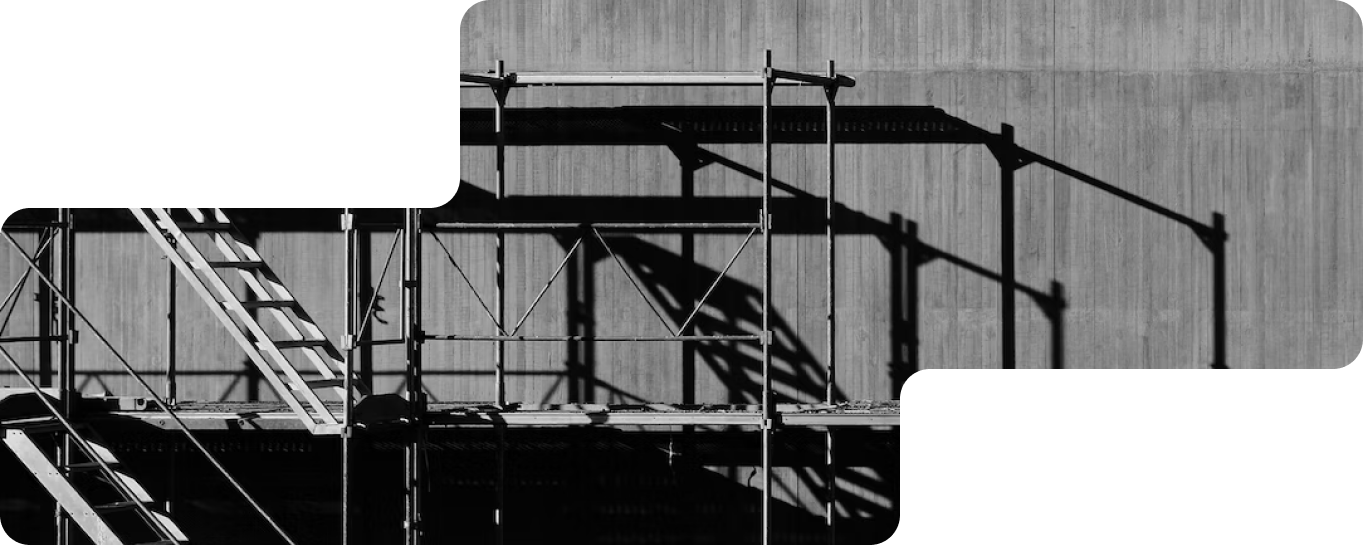
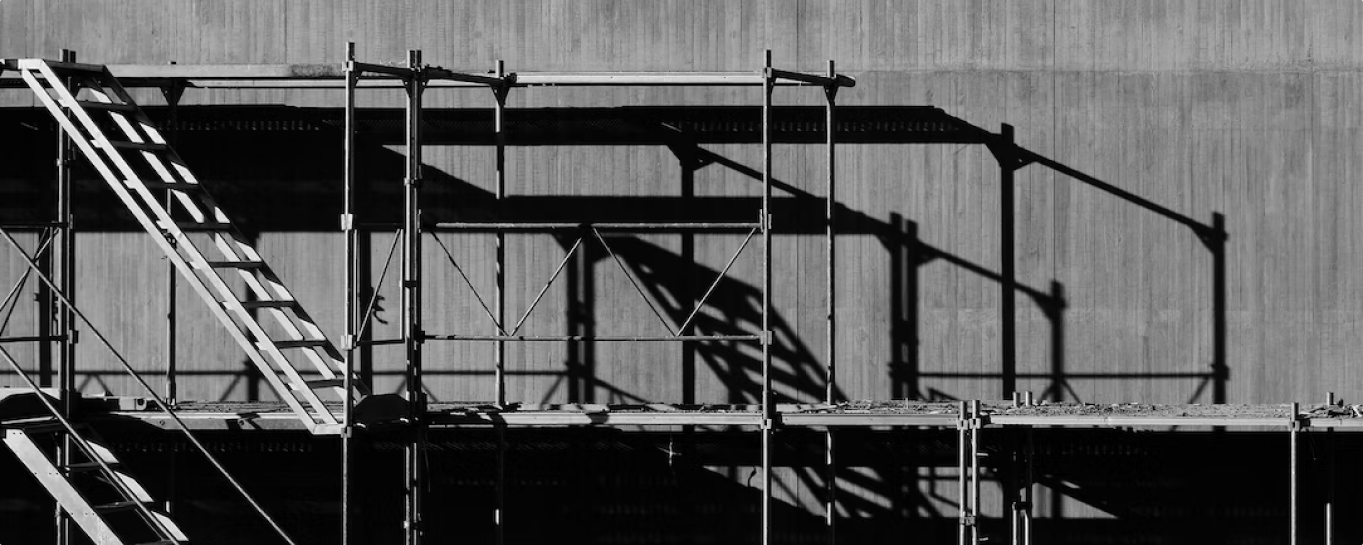
Блок Категории

diff --git a/main-page/scss/main.scss b/main-page/scss/main.scss
@@ -6,6 +6,7 @@ body {
     background-color: $bgColor;
 }
 
+
 header {
     display: flex;
     justify-content: center;
@@ -76,11 +77,18 @@ header {
 
 }
 
-.text-1 {
-    margin-top: 35px;
-    padding: 0 20px;
+
+.content-container {
     width: 100%;
     max-width: 1920px;
+    margin: 0 auto;
+    padding: 0 20px;
+}
+.text-1 {
+    margin-top: 35px;
+    // padding: 0 20px;
+    width: 100%;
+    // max-width: 1920px;
     display: flex;
     flex-direction: column;
     
@@ -105,12 +113,136 @@ header {
 }
 
 .main-category {
+    background-clip: content-box;
     margin-top: 35px;
-    padding: 0 20px;
     width: 100%;
     max-width: 1920px;
     height: 545px;
     display: flex;
     flex-direction: column;
     background-image: url("/../img/block-2.png");
+    background-repeat: no-repeat;
+    background-size: cover;
+    border-radius: 30px;
+    display: flex;
+    flex-direction: row;
+    justify-content: space-between;
+
+    > :last-child {
+        align-self: flex-end;
+        padding: 23px 0 0 23px;
+    }
+
+    .main-category-container {
+        width: 460px;
+        height: 210px;
+        border-radius: 30px 0px;
+        background-color: $bgColor;
+        margin: -1px;
+        display: grid;
+        grid-template-areas: 
+            "A B"
+            "C C"
+        ;
+
+        .angle {
+            width: 30px;
+            height: 30px;
+            background:
+                radial-gradient(circle at 100% 100%, rgba(0,0,0,0) 30px, $bgColor 0px);
+        }
+
+        .a1 {
+            grid-area: B;
+            margin-left: 19px;
+        }
+
+        .a2 {
+            grid-area: C;
+            margin-top: 19px;
+        }
+
+        
+        .main-category-link {
+            width: 440px;
+            height: 190px;
+            border-radius: 30px;
+            background: var(--secondary-bg-gradient, linear-gradient(92deg, rgba(13, 135, 248, 0.15) 1.39%, rgba(124, 231, 255, 0.25) 45.35%, rgba(143, 201, 254, 0.45) 89.31%));
+            display: flex;
+            flex-direction: row;
+            justify-content: space-between;
+            grid-area: A;
+            
+            a {
+                display: block; 
+                height: 190px;
+                width: 440px;
+                position: absolute;
+            }
+
+            p {
+                margin-left: 32px;
+                font-family: "Tektur";
+                color: $darkBlue;
+                font-size: 24px;
+                font-weight: 500;
+                align-self: center;
+            }
+
+            .main-category-arrow {
+                width: 60px;
+                height: 60px;
+                border-radius: 30px;
+                background-color: #FFFFFF;
+                flex-shrink: 0;
+                align-self: flex-end;
+                display: flex;
+                justify-content: center;
+                align-items: center;
+                margin-right: 32px;
+                margin-bottom: 30px;
+                
+            }
+        
+        }
+    }
+
+}
+
+.link-2 {
+                   
+    grid-template-areas: 
+       "B B"
+        "C A"!important
+    ;
+
+    grid-template-columns: 20px 440px;
+    grid-template-rows: 20px 190px;
+    padding: 0!important;
+    
+    .main-category-link {
+        justify-self: end;
+        align-self: end;
+    }
+
+    .angle {
+         background:
+            radial-gradient(circle at 0 0, rgba(0,0,0,0) 30px, $bgColor 0px)!important;
+    }
+
+    .a1 {
+        justify-self: end;
+        position: relative;
+        bottom: 29px;
+        // margin: 0!important;
+    }
+
+    .a2 {
+        align-self: end;
+        // margin: 0!important;
+        position: relative;
+        // padding-right: 30px;
+        right: 29px;
+        // margin: 0 30px 0 0!important;
+    }
 }

diff --git a/main-page/css/main.css b/main-page/css/main.css
@@ -78,11 +78,16 @@ header .header-content .header-cart a {
   position: absolute;
 }
 
-.text-1 {
-  margin-top: 35px;
-  padding: 0 20px;
+.content-container {
   width: 100%;
   max-width: 1920px;
+  margin: 0 auto;
+  padding: 0 20px;
+}
+
+.text-1 {
+  margin-top: 35px;
+  width: 100%;
   display: flex;
   flex-direction: column;
 }
@@ -105,12 +110,105 @@ header .header-content .header-cart a {
 }
 
 .main-category {
+  background-clip: content-box;
   margin-top: 35px;
-  padding: 0 20px;
   width: 100%;
   max-width: 1920px;
   height: 545px;
   display: flex;
   flex-direction: column;
   background-image: url("/../img/block-2.png");
+  background-repeat: no-repeat;
+  background-size: cover;
+  border-radius: 30px;
+  display: flex;
+  flex-direction: row;
+  justify-content: space-between;
+}
+.main-category > :last-child {
+  align-self: flex-end;
+  padding: 23px 0 0 23px;
+}
+.main-category .main-category-container {
+  width: 460px;
+  height: 210px;
+  border-radius: 30px 0px;
+  background-color: #F5F7FE;
+  margin: -1px;
+  display: grid;
+  grid-template-areas: "A B" "C C";
+}
+.main-category .main-category-container .angle {
+  width: 30px;
+  height: 30px;
+  background: radial-gradient(circle at 100% 100%, rgba(0, 0, 0, 0) 30px, #F5F7FE 0px);
+}
+.main-category .main-category-container .a1 {
+  grid-area: B;
+  margin-left: 19px;
+}
+.main-category .main-category-container .a2 {
+  grid-area: C;
+  margin-top: 19px;
+}
+.main-category .main-category-container .main-category-link {
+  width: 440px;
+  height: 190px;
+  border-radius: 30px;
+  background: var(--secondary-bg-gradient, linear-gradient(92deg, rgba(13, 135, 248, 0.15) 1.39%, rgba(124, 231, 255, 0.25) 45.35%, rgba(143, 201, 254, 0.45) 89.31%));
+  display: flex;
+  flex-direction: row;
+  justify-content: space-between;
+  grid-area: A;
+}
+.main-category .main-category-container .main-category-link a {
+  display: block;
+  height: 190px;
+  width: 440px;
+  position: absolute;
+}
+.main-category .main-category-container .main-category-link p {
+  margin-left: 32px;
+  font-family: "Tektur";
+  color: #3E5D93;
+  font-size: 24px;
+  font-weight: 500;
+  align-self: center;
+}
+.main-category .main-category-container .main-category-link .main-category-arrow {
+  width: 60px;
+  height: 60px;
+  border-radius: 30px;
+  background-color: #FFFFFF;
+  flex-shrink: 0;
+  align-self: flex-end;
+  display: flex;
+  justify-content: center;
+  align-items: center;
+  margin-right: 32px;
+  margin-bottom: 30px;
+}
+
+.link-2 {
+  grid-template-areas: "B B" "C A" !important;
+  grid-template-columns: 20px 440px;
+  grid-template-rows: 20px 190px;
+  padding: 0 !important;
+}
+.link-2 .main-category-link {
+  justify-self: end;
+  align-self: end;
+}
+.link-2 .angle {
+  background: radial-gradient(circle at 0 0, rgba(0, 0, 0, 0) 30px, #F5F7FE 0px) !important;
+}
+.link-2 .a1 {
+  justify-self: end;
+  position: relative;
+  bottom: 29px;
+}
+.link-2 .a2 {
+  align-self: end;
+  position: relative;
+  right: 29px;
 }

diff --git a/main-page/index.html b/main-page/index.html
@@ -47,15 +47,45 @@
     </header>
 
 
-    <div class="text-1">
-        <h1><span>Комплексные решения</span> для промышленных и учебных полигонов</h1>
-        <p>Наша компания занимается проектированием и производством полигонов для промышленных предприятий и учебных центров. Тренировочные полигоны помогают безопасно обучать сотрудников работам на высоте, 
-            в ограниченных и замкнутых пространствах.</p>
-    </div>
+    <div class="content-container">
+        <div class="text-1">
+            <h1><span>Комплексные решения</span> для промышленных и учебных полигонов</h1>
+            <p>Наша компания занимается проектированием и производством полигонов для промышленных предприятий и учебных центров. Тренировочные полигоны помогают безопасно обучать сотрудников работам на высоте,
+                в ограниченных и замкнутых пространствах.</p>
+        </div>
+        
+        <div class="main-category">
+            <div class="main-category-container link-1">
 
-    <div class="main-category">
-        <div class="main-category-block"></div>
-        <div class="main-category-block"></div>
+                <div class="main-category-link">
+                    <a href=""></a>
+                    <p>Для промышленных  предприятий</p>
+                    <div class="main-category-arrow">
+                        <img src="../img/Arrow.svg" alt="">
+                    </div>
+                </div>
+
+                <div class="angle a1"></div>
+                <div class="angle a2"></div>
+            </div>
+
+            <div class="main-category-container link-2">
+
+                <div class="main-category-link">
+                    <a href=""></a>
+                    <p>Для учебных центров</p>
+                    <div class="main-category-arrow">
+                        <img src="../img/Arrow.svg" alt="">
+                    </div>
+                </div>
+
+                <div class="angle a1"></div>
+                <div class="angle a2"></div>
+
+            </div>
+
+            <!-- <div class="main-category-block"></div> -->
+        </div>
     </div>
 
 </body>

diff --git a/Новая папка/style.css b/Новая папка/style.css
@@ -1,0 +1,25 @@
+.kvadrat {
+    width: 300px;
+    height: 300px;
+    background-color: violet;
+}
+
+.kvadrat::before {
+    width: 100%;
+    height: 100%;
+    content: '';
+    display: block;
+    position: relative;
+    left: 100%;
+    background:
+        /* radial-gradient(circle at 0 100%, rgba(0,0,0,0) 35px, #BFE2FF 10px); */
+        /* radial-gradient(circle at 100% 100%, rgba(0,0,0,0) 35px, #BFE2FF 10px); */
+        radial-gradient(circle at 100% 0, rgba(0,0,0,0) 300px, #0f273b 0px);
+        /* radial-gradient(circle at 0 0, rgba(0,0,0,0) 35px, #BFE2FF 10px); */
+    /* background-position: bottom left, bottom right, top right, top left; */
+    /* background-size: 50% 50%; */
+    background-repeat: no-repeat;    
+    /* max-width: 500px; */
+    margin: 0px auto;
+    /* padding: 30px; */
+}

diff --git a/Новая папка/index.html b/Новая папка/index.html
@@ -1,0 +1,11 @@
+<html lang="en">
+<head>
+    <meta charset="UTF-8">
+    <meta name="viewport" content="width=device-width, initial-scale=1.0">
+    <title>Document</title>
+    <link rel="stylesheet" href="style.css">
+</head>
+<body>
+    <div class='kvadrat'></div>
+</body>
+</html>
